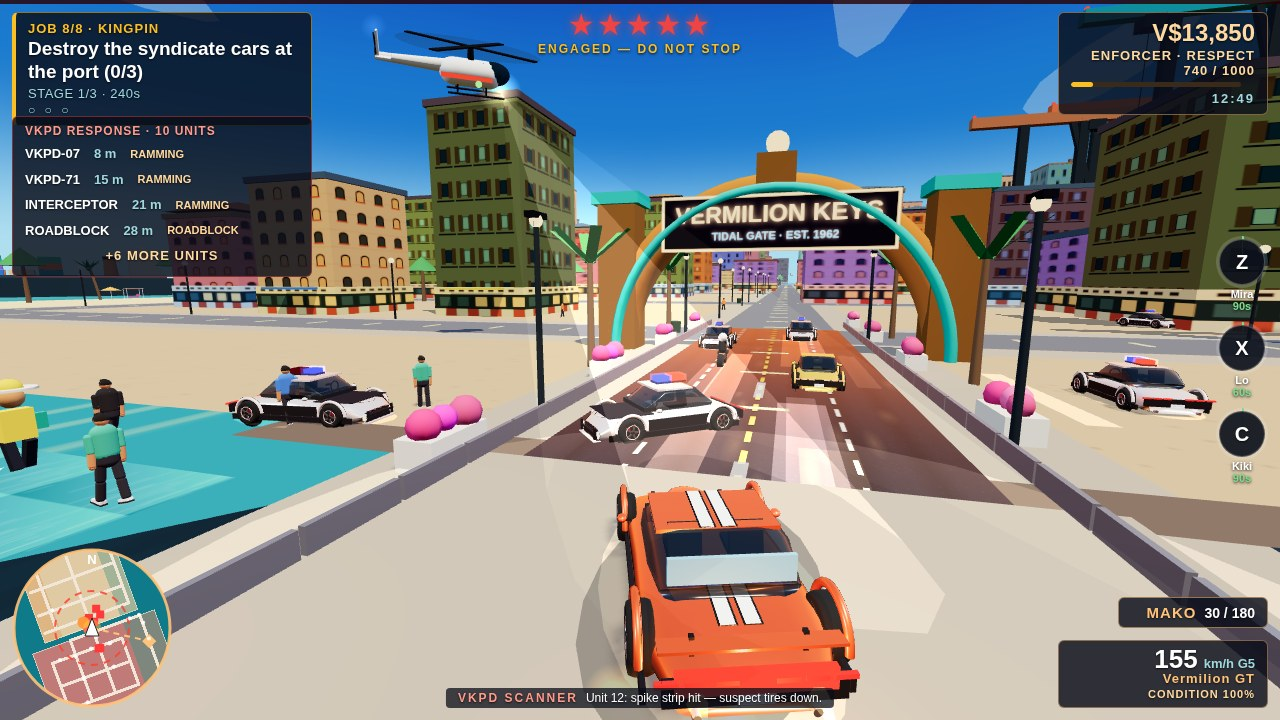
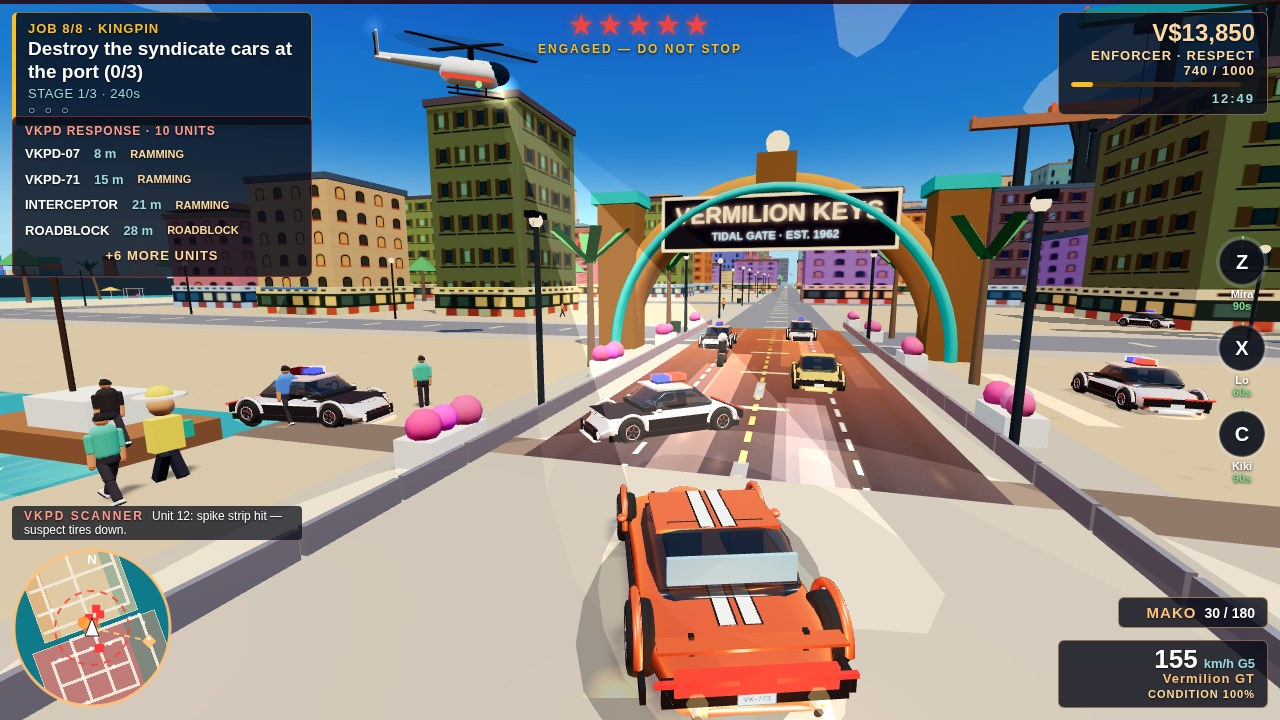
Harbour fix: quay wall, peds on deck, scanner clear of car, shots manifest selects map, owner file
- Quay slabs in city.js (BoxGeometry 20x1.8x7, 0xb79c7b) at (240,-0.9,+-10.5):
  side strips get a visible top at y=0 and a wall below the water; moving span clear.
- Moored boat in city.js at (231,0,22) on the channel water (x>230 is water;
  z is SOUTH: boardwalk island covers x -70..230, so x<230 is land and buries
  the hull — first spots (222,22) and (208,27) were land; (222,22) was also
  occluded by VKPD-71 converging onto the quay at (229.7,13.5)).
- Ped spots in populationDirector.js stageCoverCrowd: z +-9..11 (was +-15..16,
  beyond the +-14 causeway limit, so peds read as standing on the water).
- Scanner CSS in hudV3.js: #hv3-scanner moved to left 12px, bottom 180px
  (above the minimap), wraps; clears the car's rear and the roster.
- shots.json: third object is now ?shot=map&seed=1 (was ?shot=career&seed=1,
  which silently overwrote the map frame with the career dashboard).
- .makefun/owner.json with the agent wallet 7861G5M6n92nJYBojAUEmiJWWSvaA16etoXsvFt44jq9.
- Verify 42/4 (3 pre-existing FAILs + midday clock 12:49, not a regression).
- Cover + map captured, packaged, cmp identical.

diff --git a/game/src/world/city.js b/game/src/world/city.js
@@ -184,6 +184,58 @@ export function buildCity(scene, rng, game) {
   eastApproach.position.set(231, 0.05, 0);
   eastApproach.receiveShadow = true;
   scene.add(eastApproach);
+  // HARBOUR FIX — quay slabs: the land model includes the two side
+  // strips, but the moving bridge leaves cover only the middle. These
+  // slabs give the side strips a visible top at y = 0 and a wall
+  // reaching below the water. The moving span stays clear.
+  const quayGeometry = new THREE.BoxGeometry(20, 1.8, 7);
+  const quayMaterial = new THREE.MeshLambertMaterial({ color: 0xb79c7b });
+
+  for (const z of [-10.5, 10.5]) {
+    const quay = new THREE.Mesh(quayGeometry, quayMaterial);
+    quay.position.set(240, -0.9, z);
+    quay.castShadow = true;
+    quay.receiveShadow = true;
+    scene.add(quay);
+  }
+  // HARBOUR FIX — moored boat: a small boat floating on the channel
+  // water just south of the quay, placed so it reads in the cover
+  // frame (the teal water strip at the frame's left edge).
+  // COORDINATES (z is SOUTH in this world): the boardwalk island
+  // covers x -70..230, z -160..160, so any boat at x < 230 sits on
+  // LAND (y=0) and its hull is buried. The only water near the quay
+  // is the channel x 230..250, z beyond +-14. First spot (222,22)
+  // was land AND occluded by VKPD-71 (a cruiser that converges onto
+  // the quay at (229.7,13.5) during the sim); second spot (208,27)
+  // was also land. This spot (231,22) is water (isLand false), in
+  // the frame at 42-50 deg left, 2-12 m south of the quay wall, and
+  // clear of every police unit. Hull sits in the water (water plane
+  // y = -1.5); the mast gives it a vertical read at 620 px. Long
+  // axis north-south so the broad side faces the west-looking
+  // cover camera.
+  const boat = new THREE.Group();
+  const boatHull = new THREE.Mesh(
+    new THREE.BoxGeometry(3, 1.2, 8),
+    new THREE.MeshLambertMaterial({ color: 0x8a5a3b }),
+  );
+  boatHull.position.y = -1.0;
+  boatHull.castShadow = true;
+  boat.add(boatHull);
+  const boatCabin = new THREE.Mesh(
+    new THREE.BoxGeometry(2, 1, 3),
+    new THREE.MeshLambertMaterial({ color: 0xf2ead8 }),
+  );
+  boatCabin.position.set(0, 0.1, -0.5);
+  boatCabin.castShadow = true;
+  boat.add(boatCabin);
+  const boatMast = new THREE.Mesh(
+    new THREE.CylinderGeometry(0.08, 0.08, 4.5, 6),
+    new THREE.MeshLambertMaterial({ color: 0x4a3428 }),
+  );
+  boatMast.position.set(0, 2.2, 0.5);
+  boat.add(boatMast);
+  boat.position.set(231, 0, 22);
+  scene.add(boat);
   // FIX ROUND 6 — wet causeway band: the chase stretch (x 230-300)
   // is dark wet asphalt, not the tan promenade slabs, so the road
   // reads as a road and the sun glints on it read as reflections.

diff --git a/game/src/world/populationDirector.js b/game/src/world/populationDirector.js
@@ -205,14 +205,14 @@ export class PopulationDirector {
     // top of) the 16 staged peds at z +/-9..13: tourists south, a
     // skater pair north, lookouts watching the chase from both sides.
     const spots = [
-      { kind: 'tourist', x: 236, z: 15 },
-      { kind: 'tourist', x: 242, z: -15 },
-      { kind: 'tourist', x: 248, z: 15 },
-      { kind: 'skater', x: 238, z: -16 },
-      { kind: 'skater', x: 246, z: 16 },
-      { kind: 'lookout', x: 234, z: -15 },
-      { kind: 'lookout', x: 250, z: -16 },
-      { kind: 'tourist', x: 240, z: 16 },
+      { kind: 'tourist', x: 236, z: 10 },
+      { kind: 'tourist', x: 242, z: -10 },
+      { kind: 'tourist', x: 248, z: 11 },
+      { kind: 'skater',  x: 238, z: -11 },
+      { kind: 'skater',  x: 246, z: 10 },
+      { kind: 'lookout', x: 234, z: -9 },
+      { kind: 'lookout', x: 249, z: -11 },
+      { kind: 'tourist', x: 240, z: 11 },
     ];
     for (const s of spots) {
       const p = this.spawnArchetype(s.kind, s.x, s.z);

diff --git a/game/src/ui/hudV3.js b/game/src/ui/hudV3.js
@@ -94,6 +94,13 @@ const HUDV3_CSS = `
 #hv3-scanner { position: absolute; left: 50%; bottom: 12px; transform: translateX(-50%);
   display: none; background: rgba(10, 14, 26, .75); border-radius: 4px; padding: 3px 12px;
   font-size: 12px; white-space: nowrap; max-width: 460px; overflow: hidden; text-overflow: ellipsis; }
+#hv3-scanner {
+  left: 12px;
+  bottom: 180px;
+  transform: none;
+  max-width: min(290px, 36vw);
+  white-space: normal;
+}
 #hv3-scanner.show { display: block; }
 #hv3-scanner b { color: #ff9a8a; letter-spacing: 2px; margin-right: 8px; }
 #hv3-banner { position: absolute; top: 96px; left: 50%; transform: translateX(-50%);
